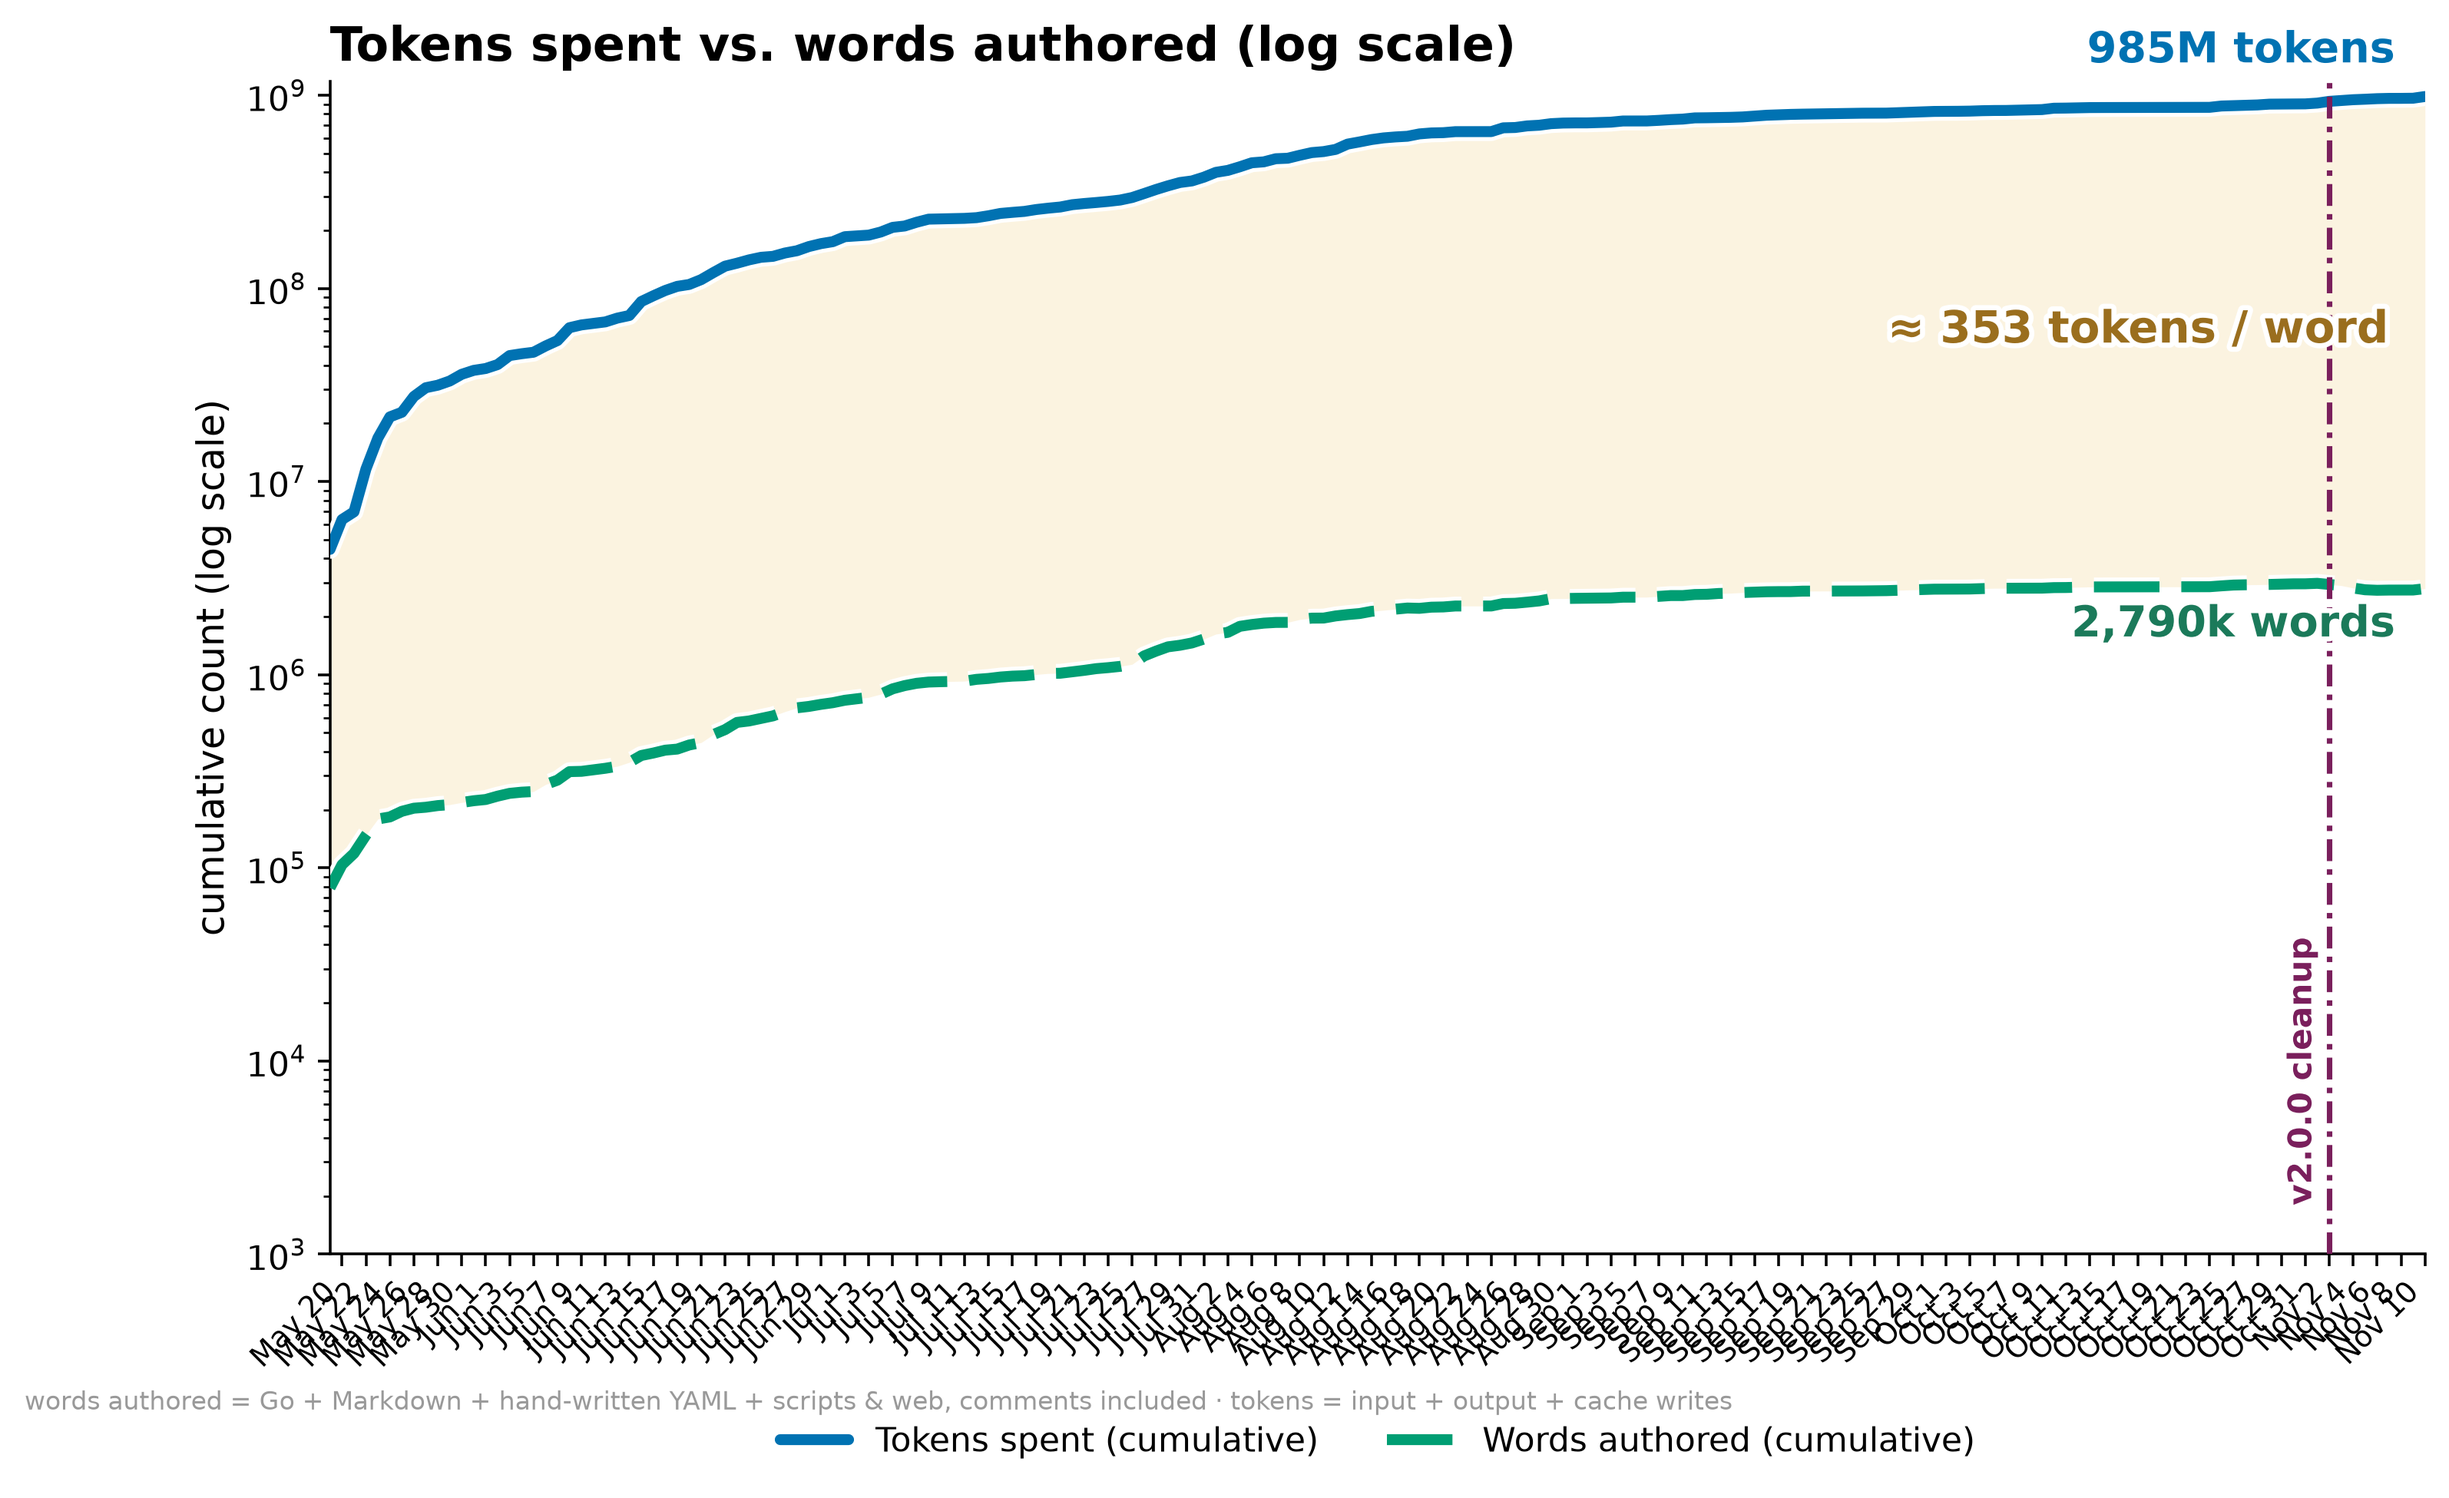
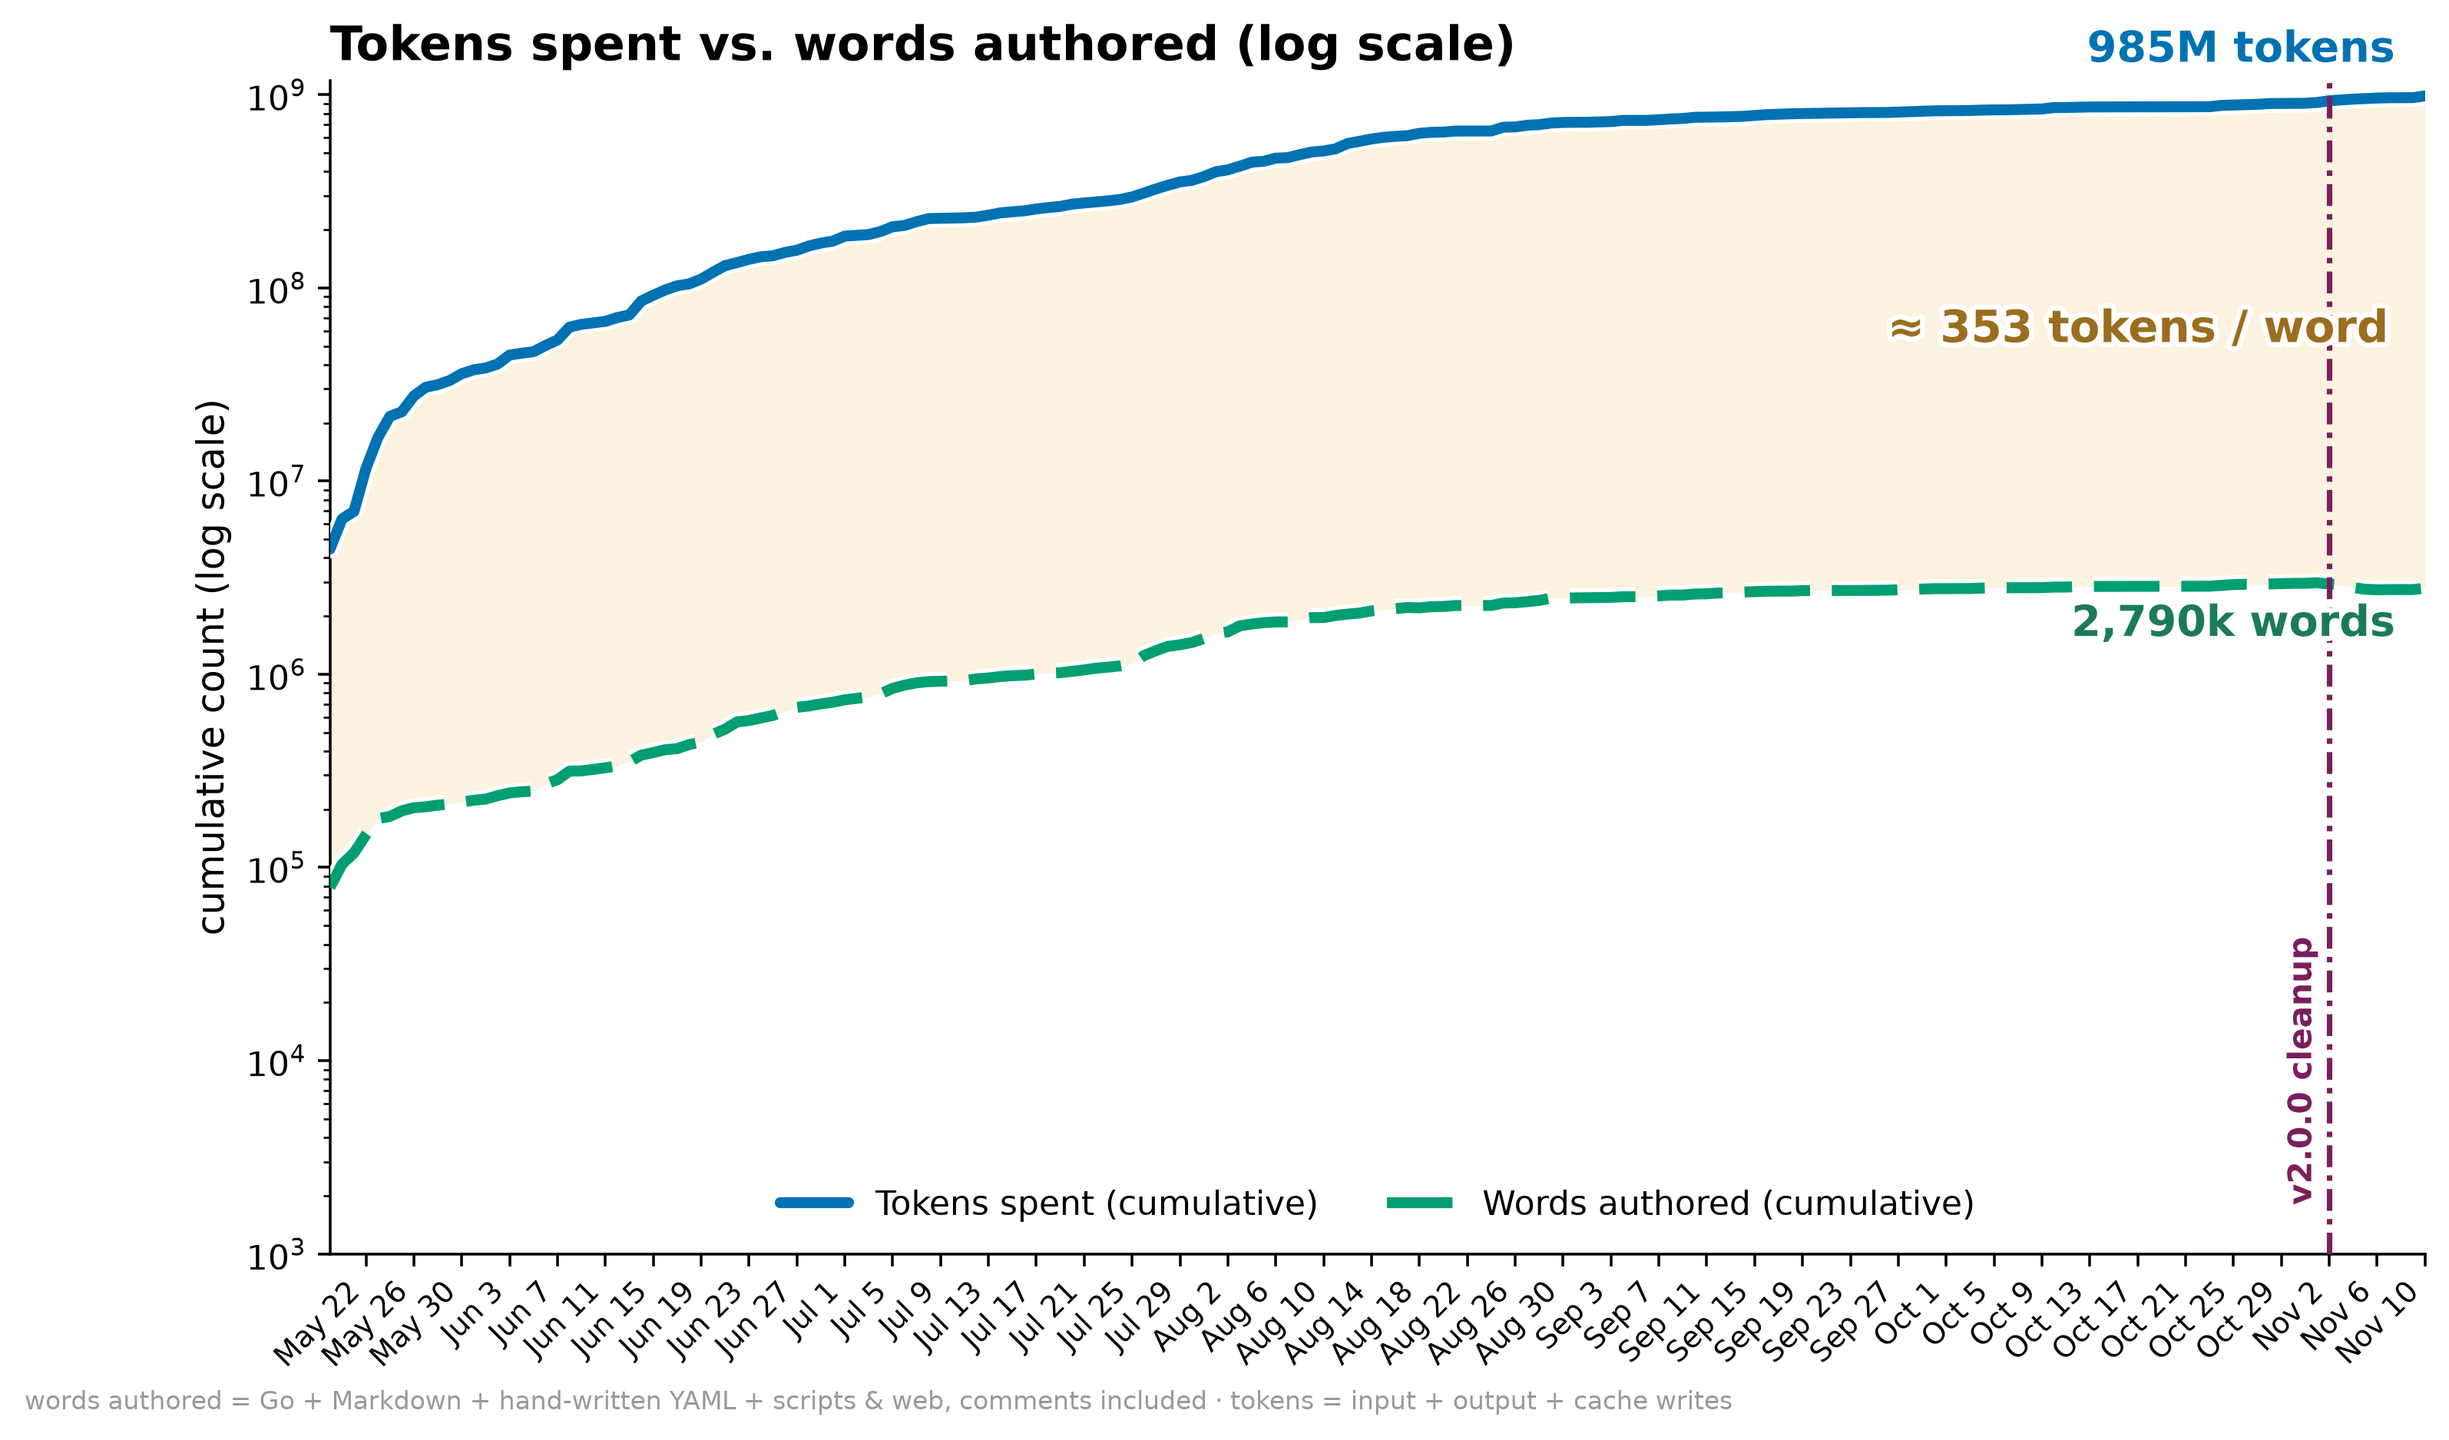
fix(usage): space date ticks by span so rotated labels stop colliding
Nine date axes ticked every 2 or 4 days whatever the span, so at 179 days
the rotated labels overlapped on eight charts: measured as tick pitch
across the 45-degree slant over text height, they sat at 0.53-0.95,
where the charts that read cleanly sit at 1.15 or more. A locator now
picks the step from the visible span, capped at 45 labels, and the two
index axes thin their labels the same way; every chart now measures at
1.13 or more.

Also moves the tokens-vs-words legend off the footer, and drops a weekly
value label within a week of the end, where it sat under the end label
giving the same figure.

diff --git a/claude-usage/make_charts.py b/claude-usage/make_charts.py
@@ -267,6 +267,36 @@ def v2_marker(axes, label_ax, y=0.01):
     tree_marker(axes, label_ax, V2_RETIREMENT, "v2.0.0 cleanup", RETIRE_STYLE, y)
 
 
+# Date ticks are rotated 45°, so two labels collide when the tick pitch across the
+# slant falls below the text height. Measured on these 11-inch figures at 8.5pt,
+# 45 ticks clear it (1.15 text heights at 179 days); 90 do not (0.58).
+MAX_DATE_TICKS = 45
+TICK_STEPS = (1, 2, 3, 4, 7, 14, 28)
+
+
+def tick_step(n_days):
+    """Smallest day step that keeps ``n_days`` to ``MAX_DATE_TICKS`` labels."""
+    return next((s for s in TICK_STEPS if n_days / s <= MAX_DATE_TICKS), TICK_STEPS[-1])
+
+
+class SpanDayLocator(mdates.DateLocator):
+    """Day ticks whose step follows the visible span, so a longer series thins itself."""
+
+    def __call__(self):
+        lo, hi = self.axis.get_view_interval()
+        return self.tick_values(mdates.num2date(lo), mdates.num2date(hi))
+
+    def tick_values(self, vmin, vmax):
+        step = tick_step((vmax - vmin).days + 1)
+        return mdates.DayLocator(interval=step).tick_values(vmin, vmax)
+
+
+def day_labels(days):
+    """``%b %-d`` labels for an index axis, blank between every ``tick_step`` day."""
+    step = tick_step(len(days))
+    return [dparse(d).strftime("%b %-d") if i % step == 0 else "" for i, d in enumerate(days)]
+
+
 def rolling_mean(vals, window=7):
     """Centered rolling mean, ``None`` where the full window doesn't fit.
 
@@ -416,8 +446,7 @@ def chart_tokens_by_model():
     ax.set_title("Daily Claude Code token usage by model", fontsize=14, fontweight="bold", loc="left")
     ax.set_ylabel("tokens / day  (millions)", fontsize=11)
     ax.set_xticks(xs)
-    ax.set_xticklabels([dparse(d).strftime("%b %-d") if i % 2 == 0 else "" for i, d in enumerate(days)],
-                       rotation=45, ha="right", fontsize=8)
+    ax.set_xticklabels(day_labels(days), rotation=45, ha="right", fontsize=8)
     ax.legend(handles=handles, frameon=False, fontsize=10, ncol=5, loc="upper center",
               bbox_to_anchor=(0.5, -0.18))
     for s in ("top", "right"):
@@ -560,7 +589,7 @@ def chart_tokens_per_word():
     axb.set_ylim(0, running * 1.05)
     axb.set_xlim(xs[0], xs[-1])
     axb.xaxis.set_major_formatter(mdates.DateFormatter("%b %-d"))
-    axb.xaxis.set_major_locator(mdates.DayLocator(interval=2))
+    axb.xaxis.set_major_locator(SpanDayLocator())
     plt.setp(axb.get_xticklabels(), rotation=45, ha="right", fontsize=8.5)
     axb.grid(axis="y", alpha=0.22)
     for s in ("top", "right"):
@@ -575,7 +604,7 @@ def chart_tokens_per_word():
             a.axvline(wd, color="#9AA0A6", ls=(0, (4, 3)), lw=1.0, alpha=0.7, zorder=1)
     for wd in week_dates:
         v = _val_on(wd)
-        if v is None or wd == xs[-1]:  # the final point already carries a big label
+        if v is None or (xs[-1] - wd).days < 7:  # the end label already gives this value
             continue
         ax.plot([wd], [v], "o", color=gold, ms=5, zorder=6)
         ax.annotate(f"{v:,.0f}", (wd, v), xytext=(0, 9), textcoords="offset points",
@@ -630,9 +659,10 @@ def chart_tokens_vs_words():
                  fontsize=14, fontweight="bold", loc="left")
     ax.set_ylabel("cumulative count (log scale)", fontsize=11)
     ax.xaxis.set_major_formatter(mdates.DateFormatter("%b %-d"))
-    ax.xaxis.set_major_locator(mdates.DayLocator(interval=2))
+    ax.xaxis.set_major_locator(SpanDayLocator())
     plt.setp(ax.get_xticklabels(), rotation=45, ha="right", fontsize=8.5)
-    ax.legend(loc="upper center", bbox_to_anchor=(0.5, -0.12), ncol=2, frameon=False, fontsize=10)
+    # Inside the empty band below the words curve, clear of the footer.
+    ax.legend(loc="lower center", ncol=2, frameon=False, fontsize=10)
     ax.spines["top"].set_visible(False)
     ax.spines["right"].set_visible(False)
     v2_marker((ax,), ax, y=0.03)
@@ -727,7 +757,7 @@ def chart_overview():
                 path_effects=HALO, zorder=LABEL_Z)
     for wd in week_dates:
         v = _val_on(wd)
-        if v is None or wd == xs[-1]:
+        if v is None or (xs[-1] - wd).days < 7:
             continue
         a3.plot([wd], [v], "o", color=gold, ms=5, zorder=6)
         a3.annotate(f"{v:,.0f}", (wd, v), xytext=(0, 9), textcoords="offset points",
@@ -738,7 +768,7 @@ def chart_overview():
     a3.set_title("What those words cost in tokens", fontsize=12.5, fontweight="bold", loc="left")
     a3.grid(axis="y", alpha=0.22)
     a3.xaxis.set_major_formatter(mdates.DateFormatter("%b %-d"))
-    a3.xaxis.set_major_locator(mdates.DayLocator(interval=2))
+    a3.xaxis.set_major_locator(SpanDayLocator())
     plt.setp(a3.get_xticklabels(), rotation=45, ha="right", fontsize=8.5)
 
     # shared x + day/week guides on all panels
@@ -797,7 +827,7 @@ def chart_token_anatomy():
     ax.set_ylabel("tokens / day  (log scale)", fontsize=11)
     ax.set_title("Anatomy of token usage", fontsize=14, fontweight="bold", loc="left")
     ax.xaxis.set_major_formatter(mdates.DateFormatter("%b %-d"))
-    ax.xaxis.set_major_locator(mdates.DayLocator(interval=2))
+    ax.xaxis.set_major_locator(SpanDayLocator())
     plt.setp(ax.get_xticklabels(), rotation=45, ha="right", fontsize=8.5)
     # Upper left: the series are ordered by magnitude and never cross, so the band
     # above the cache-read line early in the timeline is the one region no series
@@ -833,7 +863,7 @@ def chart_cumulative_cache():
     ax.set_title("Cumulative cache traffic", fontsize=14, fontweight="bold", loc="left")
     ax.set_ylabel("cumulative tokens  (billions)", fontsize=11)
     ax.xaxis.set_major_formatter(mdates.DateFormatter("%b %-d"))
-    ax.xaxis.set_major_locator(mdates.DayLocator(interval=2))
+    ax.xaxis.set_major_locator(SpanDayLocator())
     plt.setp(ax.get_xticklabels(), rotation=45, ha="right", fontsize=8.5)
     ax.set_xlim(days[0], days[-1])
     ax.set_ylim(0, (cc + cr)[-1] * 1.10)
@@ -940,8 +970,7 @@ def chart_parallel_sessions():
         for s in ("top", "right"):
             a.spines[s].set_visible(False)
     a2.set_xticks(xs)
-    a2.set_xticklabels([dparse(d).strftime("%b %-d") for d in days], rotation=45, ha="right",
-                       fontsize=9)
+    a2.set_xticklabels(day_labels(days), rotation=45, ha="right", fontsize=8.5)
     fig.text(0.012, 0.01,
              "session-level data survives only from " + days[0] +
              " — earlier transcripts were not retained, so this series cannot be backfilled",
@@ -1132,7 +1161,7 @@ def chart_velocity():
     stagger_labels(fig, labels, 0.11)
 
     a4.xaxis.set_major_formatter(mdates.DateFormatter("%b %-d"))
-    a4.xaxis.set_major_locator(mdates.DayLocator(interval=4))
+    a4.xaxis.set_major_locator(SpanDayLocator())
     plt.setp(a4.get_xticklabels(), rotation=45, ha="right", fontsize=8.5)
     # One figure-level key rather than four inline ones: every panel shares the
     # encoding, and a legend box inside any of them lands on an event label.
@@ -1439,7 +1468,7 @@ def chart_lines_vs_words():
     reflow_marker((a1, a2), a2, y=0.05)
     v2_marker((a2,), a2, y=0.05)  # the docs corpus barely moved (-0.5%), the ratio did
     a2.xaxis.set_major_formatter(mdates.DateFormatter("%b %-d"))
-    a2.xaxis.set_major_locator(mdates.DayLocator(interval=4))
+    a2.xaxis.set_major_locator(SpanDayLocator())
     plt.setp(a2.get_xticklabels(), rotation=45, ha="right", fontsize=8.5)
     fig.text(0.012, 0.006,
              "same non-blank text both times, only the unit differs · "
@@ -1524,7 +1553,7 @@ def chart_authored_bands():
     al.set_title("The same split in lines — only this panel steps at the reflow",
                  fontsize=13.5, fontweight="bold", loc="left")
     al.xaxis.set_major_formatter(mdates.DateFormatter("%b %-d"))
-    al.xaxis.set_major_locator(mdates.DayLocator(interval=4))
+    al.xaxis.set_major_locator(SpanDayLocator())
     plt.setp(al.get_xticklabels(), rotation=45, ha="right", fontsize=8.5)
 
     reflow_marker((aw, al), al, y=0.03)
@@ -1643,7 +1672,7 @@ def chart_session_kinds():
         stagger_labels(fig, labels, 0.11)
 
     a2.xaxis.set_major_formatter(mdates.DateFormatter("%b %-d"))
-    a2.xaxis.set_major_locator(mdates.DayLocator(interval=2))
+    a2.xaxis.set_major_locator(SpanDayLocator())
     plt.setp(a2.get_xticklabels(), rotation=45, ha="right", fontsize=8.5)
     a0.legend(loc="upper left", frameon=False, fontsize=9.5, ncol=3)
     fig.text(0.012, 0.006,
